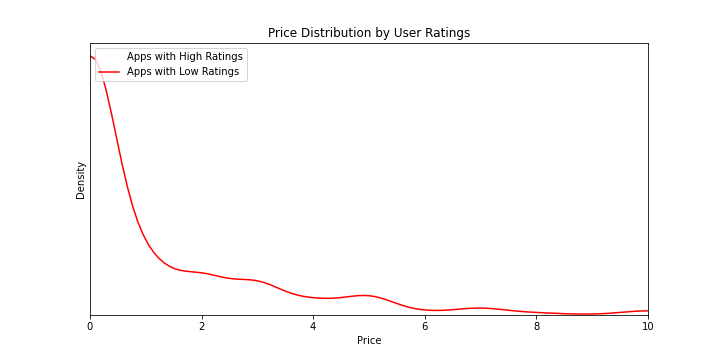
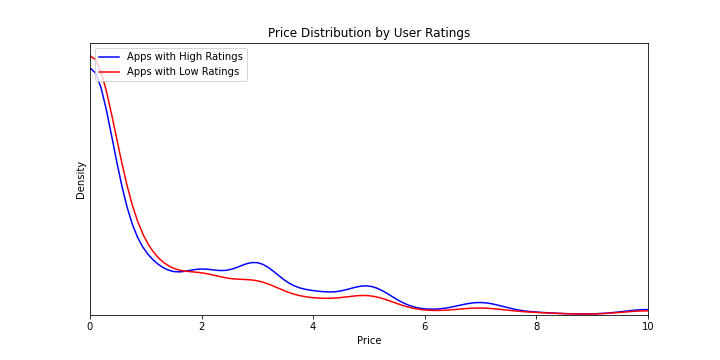
bo2

diff --git a/AppleDataSetProject.py b/AppleDataSetProject.py
@@ -211,7 +211,7 @@ highratings = new_appdata[new_appdata['ratings_cat'] == 'high']
 lowratings = new_appdata[new_appdata['ratings_cat'] == 'low']
 
 
-ax = sns.kdeplot(highratings['price'], color ='White', label='Apps with High Ratings', shade=False)
+ax = sns.kdeplot(highratings['price'], color ='Blue', label='Apps with High Ratings', shade=False)
 ax = sns.kdeplot(lowratings['price'], color='Red', label='Apps with Low Ratings', shade=False)
 
 plt.yticks([])
